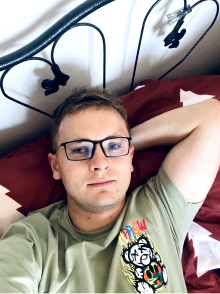
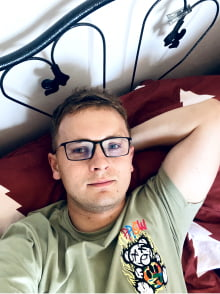
Adds optimized pics to section reviews

diff --git a/src/partials/customer-reviews.html b/src/partials/customer-reviews.html
@@ -111,12 +111,9 @@
         <div class="customer-reviews__image">
           <img
             class="team__img image"
-            srcset="
-              ./image/team/unknown1.jpg  85w,
-              ./image/team/unknown1.jpg 170w
-            "
+            srcset="./image/team/semen.jpg 85w, ./image/team/semen@2x.jpg 170w"
             sizes="85px"
-            src="./image/team/unknown1.jpg"
+            src="./image/team/semen.jpg"
             alt="Semen"
             width="85"
             height="85"
